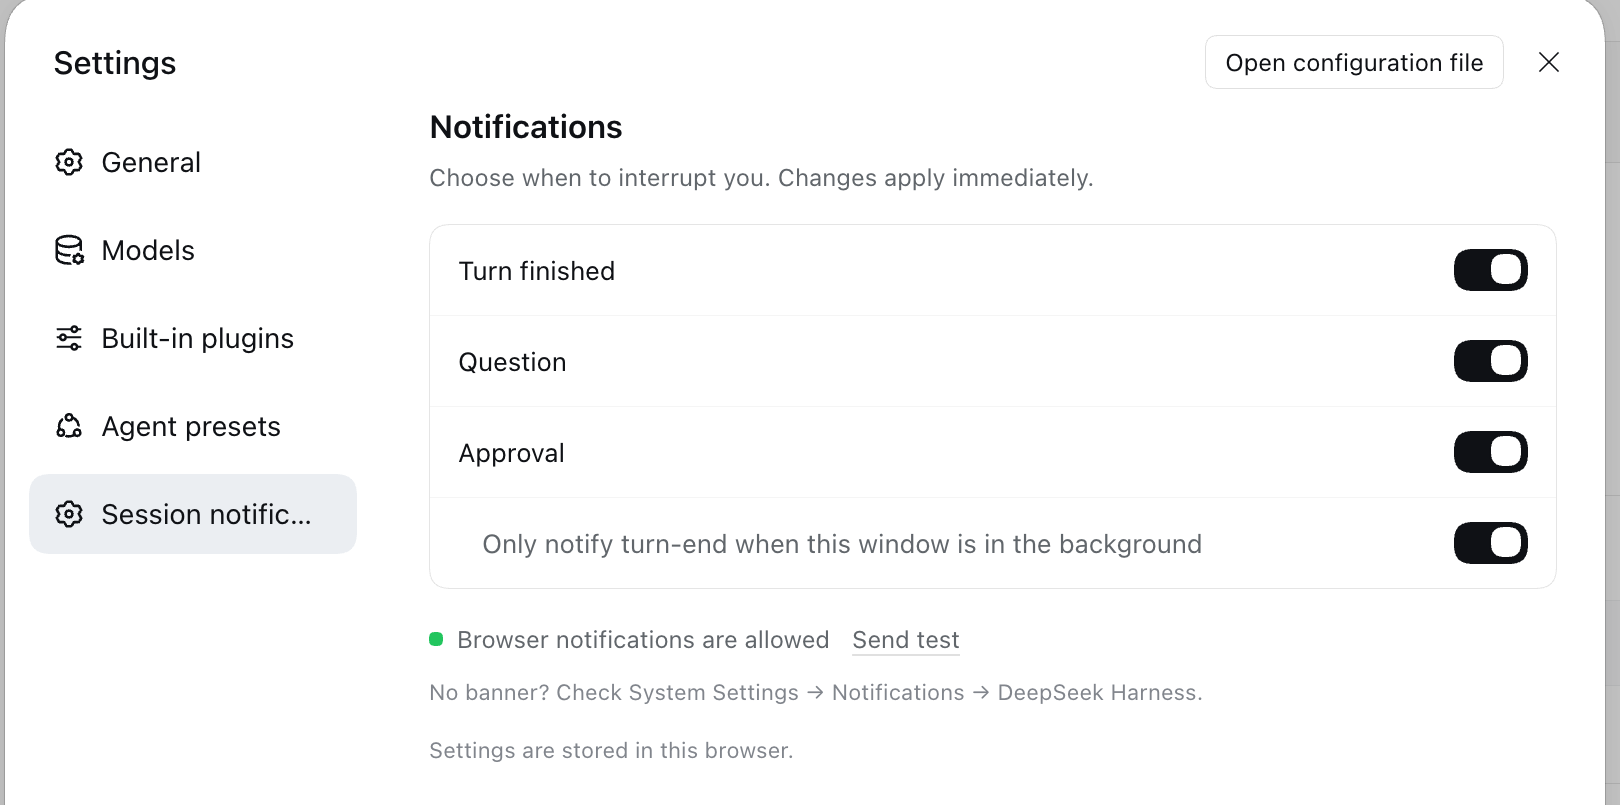
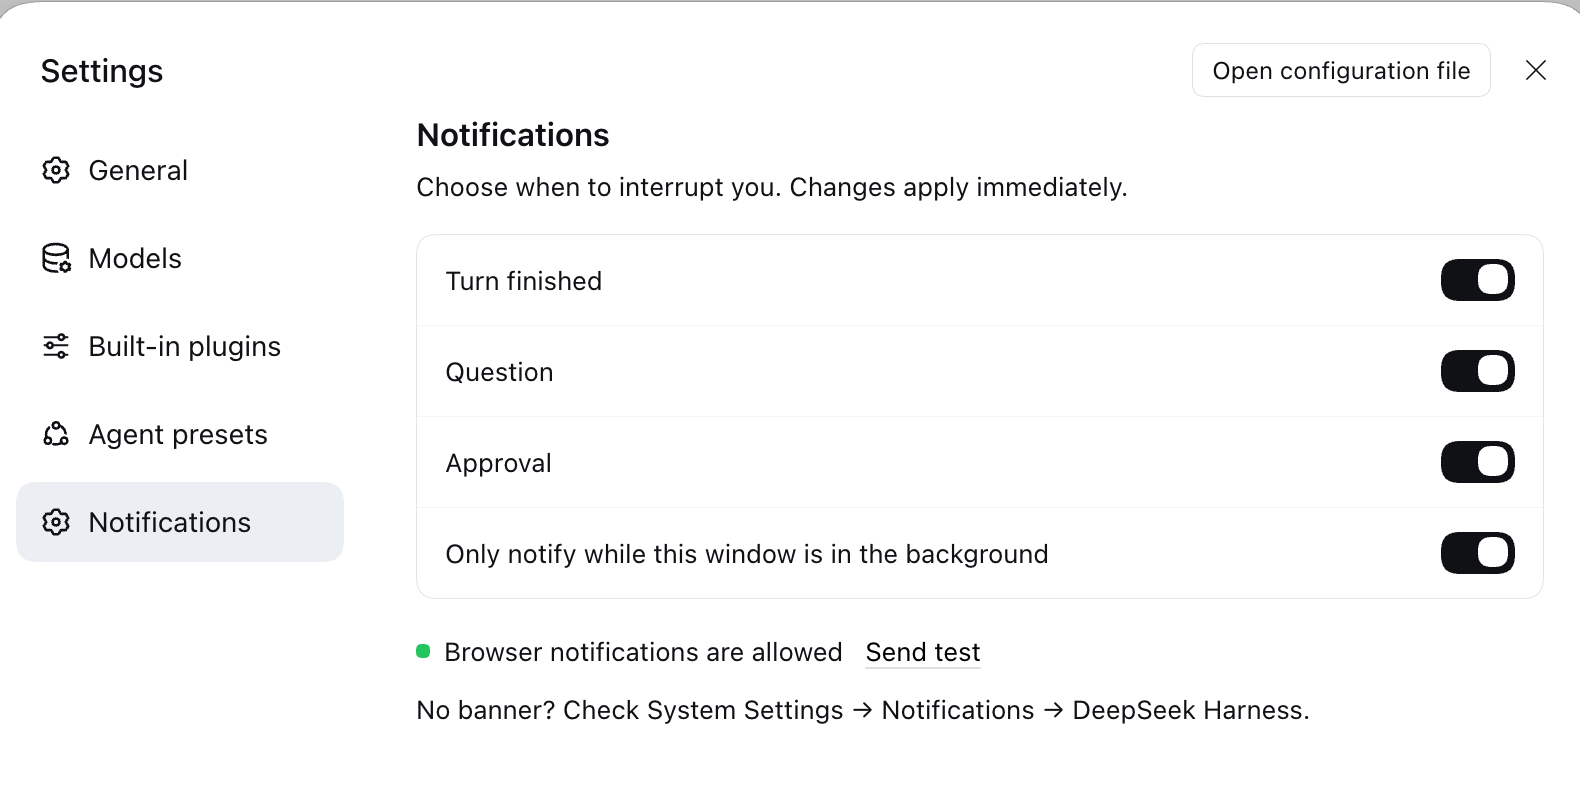
fix: gate every notification on window focus
- Question and approval events no longer notify while the window is focused.
- The background-only switch is a normal row and covers every kind.
- Settings text uses one size and color. Removed the storage note.
- The settings label is Notifications, which fits the sidebar.

diff --git a/client.js b/client.js
@@ -16,15 +16,13 @@ window.__ModuleLoader__.load({
     })
 
     const en = {
-      nav: 'Session notifications',
+      nav: 'Notifications',
       title: 'Notifications',
       intro: 'Choose when to interrupt you. Changes apply immediately.',
       turnEnd: 'Turn finished',
       question: 'Question',
       approval: 'Approval',
-      onlyUnfocused: 'Only notify turn-end when this window is in the background',
-      onlyUnfocusedDisabled: 'Turn-end notifications are off',
-      note: 'Settings are stored in this browser.',
+      onlyUnfocused: 'Only notify while this window is in the background',
       permissionGranted: 'Browser notifications are allowed',
       permissionDenied: 'Browser notifications are denied',
       permissionDefault: 'Browser notifications are not enabled',
@@ -51,9 +49,7 @@ window.__ModuleLoader__.load({
       turnEnd: '回合结束',
       question: '提问',
       approval: '审批',
-      onlyUnfocused: '仅后台通知回合结束',
-      onlyUnfocusedDisabled: '回合结束通知已关闭',
-      note: '设置只保存在当前浏览器。',
+      onlyUnfocused: '仅在窗口处于后台时通知',
       permissionGranted: '浏览器通知已允许',
       permissionDenied: '浏览器通知已被拒绝',
       permissionDefault: '浏览器通知尚未授权',
@@ -90,9 +86,8 @@ window.__ModuleLoader__.load({
       }
       .sb-intro {
         margin: 4px 0 0;
-        color: var(--dsw-alias-label-secondary);
-        font-size: 12px;
-        line-height: 19px;
+        font-size: 13px;
+        line-height: 20px;
       }
       .sb-list {
         margin-top: 14px;
@@ -124,11 +119,7 @@ window.__ModuleLoader__.load({
         outline: 2px solid var(--dsw-alias-state-business-primary);
         outline-offset: -2px;
       }
-      .sb-row:disabled { opacity: .45; cursor: default; }
-      .sb-row:disabled:hover { background: transparent; }
       .sb-row-label { font-size: 13px; line-height: 20px; }
-      .sb-row-sub { padding-left: 26px; }
-      .sb-row-sub .sb-row-label { color: var(--dsw-alias-label-secondary); }
       .sb-switch {
         position: relative;
         width: 36px;
@@ -166,9 +157,8 @@ window.__ModuleLoader__.load({
         gap: 7px;
         min-height: 28px;
         margin-top: 14px;
-        color: var(--dsw-alias-label-secondary);
-        font-size: 12px;
-        line-height: 18px;
+        font-size: 13px;
+        line-height: 20px;
       }
       .sb-dot {
         width: 7px;
@@ -186,10 +176,7 @@ window.__ModuleLoader__.load({
         border: 0;
         border-radius: var(--dsw-radius-xs, 4px);
         background: transparent;
-        color: var(--dsw-alias-label-secondary);
         font: inherit;
-        font-size: 12px;
-        line-height: 18px;
         text-decoration: underline;
         text-decoration-color: var(--dsw-alias-border-l3);
         text-underline-offset: 3px;
@@ -202,17 +189,6 @@ window.__ModuleLoader__.load({
       .sb-link:focus-visible {
         outline: 2px solid var(--dsw-alias-state-business-primary);
         outline-offset: 1px;
-      }
-      .sb-hint {
-        color: var(--dsw-alias-label-tertiary);
-        font-size: 11px;
-        line-height: 17px;
-      }
-      .sb-note {
-        margin: 12px 0 0;
-        color: var(--dsw-alias-label-tertiary);
-        font-size: 11px;
-        line-height: 17px;
       }
       @media (prefers-reduced-motion: reduce) {
         .sb-switch, .sb-switch::after { transition: none; }
@@ -366,14 +342,12 @@ window.__ModuleLoader__.load({
       return () => style.remove()
     }
 
-    function SwitchRow({ label, checked, disabled, disabledTitle, sub, onChange }) {
+    function SwitchRow({ label, checked, onChange }) {
       return React.createElement('button', {
         type: 'button',
-        className: sub ? 'sb-row sb-row-sub' : 'sb-row',
+        className: 'sb-row',
         role: 'switch',
         'aria-checked': checked,
-        disabled,
-        title: disabled ? disabledTitle : undefined,
         onClick: () => onChange(!checked),
       },
         React.createElement('span', { className: 'sb-row-label' }, label),
@@ -393,15 +367,11 @@ window.__ModuleLoader__.load({
         () => locale.getSnapshot().revision,
       )
 
-      function row(key, label, sub = false) {
-        const disabled = key === 'onlyUnfocused' && !settings.turnEnd
+      function row(key, label) {
         return React.createElement(SwitchRow, {
           key,
           label,
           checked: settings[key],
-          disabled,
-          disabledTitle: t('onlyUnfocusedDisabled'),
-          sub,
           onChange: (value) => store.set({ [key]: value }),
         })
       }
@@ -421,7 +391,7 @@ window.__ModuleLoader__.load({
             className: 'sb-link',
             onClick: () => { void sendTest(t) },
           }, t('test')),
-          React.createElement('span', { className: 'sb-hint' }, t('permissionHint')),
+          React.createElement('span', null, t('permissionHint')),
         )
       } else if (permissionState === 'denied') {
         permissionNode = React.createElement('div', { className: 'sb-permission' },
@@ -432,7 +402,7 @@ window.__ModuleLoader__.load({
             className: 'sb-link',
             onClick: () => { void requestPermission() },
           }, t('requestAgain')),
-          React.createElement('span', { className: 'sb-hint' }, t('deniedHint')),
+          React.createElement('span', null, t('deniedHint')),
         )
       } else {
         permissionNode = React.createElement('div', { className: 'sb-permission' },
@@ -443,7 +413,7 @@ window.__ModuleLoader__.load({
             className: 'sb-link',
             onClick: () => { void requestPermission() },
           }, t('request')),
-          React.createElement('span', { className: 'sb-hint' }, t('permissionHint')),
+          React.createElement('span', null, t('permissionHint')),
         )
       }
 
@@ -454,10 +424,9 @@ window.__ModuleLoader__.load({
           row('turnEnd', t('turnEnd')),
           row('question', t('question')),
           row('approval', t('approval')),
-          row('onlyUnfocused', t('onlyUnfocused'), true),
+          row('onlyUnfocused', t('onlyUnfocused')),
         ),
         permissionNode,
-        React.createElement('p', { className: 'sb-note' }, t('note')),
       )
     }
 
@@ -503,7 +472,7 @@ window.__ModuleLoader__.load({
           else if (payload.kind === 'approval') enabled = settings.approval
           else return
           if (!enabled) return
-          if (payload.kind === 'turn-end' && settings.onlyUnfocused && isWindowFocused()) return
+          if (settings.onlyUnfocused && isWindowFocused()) return
 
           const body = typeof payload.body === 'string' && payload.body !== ''
             ? payload.body

diff --git a/test/client.test.js b/test/client.test.js
@@ -260,7 +260,7 @@ test('persists a switch immediately', () => {
   })
   const second = switches(page.render())
   assert.equal(second.find((row) => textOf(row) === '回合结束').props['aria-checked'], false)
-  assert.equal(second.find((row) => textOf(row) === '仅后台通知回合结束').props.disabled, true)
+  assert.equal(second.find((row) => textOf(row) === '仅在窗口处于后台时通知').props['aria-checked'], true)
 })
 
 test('an event source failure does not remove the settings page', () => {
@@ -304,7 +304,7 @@ test('denied permission suppresses notifications', () => {
 
 test('turning off background-only lets a focused turn-end notify', () => {
   const page = setup()
-  const onlyUnfocused = switches(page.render()).find((row) => textOf(row) === '仅后台通知回合结束')
+  const onlyUnfocused = switches(page.render()).find((row) => textOf(row) === '仅在窗口处于后台时通知')
   onlyUnfocused.props.onClick()
   page.setFocused(true)
   page.send({ kind: 'turn-end', sessionId: 's1', title: 'Build', body: 'Done.' })
@@ -360,9 +360,21 @@ test('permission status names the browser permission and points to system settin
   assert.match(denied, /在浏览器中允许/)
 })
 
-test('question fallback is localized when the body is empty', () => {
+test('a focused window suppresses questions and approvals too', () => {
   const page = setup()
   page.setFocused(true)
+  page.send({ kind: 'question', sessionId: 's1', title: 'Build', body: '' })
+  page.send({ kind: 'approval', sessionId: 's1', title: 'Build', body: '', meta: { toolName: 'Bash' } })
+  assert.equal(page.notifications.length, 0)
+  page.setFocused(false)
+  page.send({ kind: 'question', sessionId: 's1', title: 'Build', body: '' })
+  page.send({ kind: 'approval', sessionId: 's1', title: 'Build', body: '', meta: { toolName: 'Bash' } })
+  assert.equal(page.notifications.length, 2)
+})
+
+test('question fallback is localized when the body is empty', () => {
+  const page = setup()
+  page.setFocused(false)
   page.send({ kind: 'question', sessionId: 's1', title: 'Build', body: '' })
   assert.equal(page.notifications.length, 1)
   assert.equal(page.notifications[0].options.body, '需要你回答')

diff --git a/README.md b/README.md
@@ -24,19 +24,19 @@ Harness itself, not a helper app. A click opens the Session that raised it.
 
 ## Settings
 
-Open More → Settings, then choose Session notifications in the settings sidebar.
+Open More → Settings, then choose Notifications in the settings sidebar.
 
-![Session notifications in More → Settings](assets/screenshot-settings.png)
+![Notifications in More → Settings](assets/screenshot-settings.png)
 
 | Switch | What it does |
 | --- | --- |
 | Turn finished | Notify when a turn stops. |
 | Question | Notify when a question waits for an answer. |
 | Approval | Notify when an approval waits for a decision. |
-| Only notify turn-end when this window is in the background | When on, a focused window does not show turn-end notifications. When off, every turn end notifies. Default on. Disabled when Turn finished is off. |
+| Only notify while this window is in the background | When on, a focused window shows no notifications. When off, every event notifies. Default on. |
 
-Switches apply immediately; there is no save button. Settings are stored in the
-current browser (localStorage), not in the app configuration. The section shows
+Switches apply immediately; there is no save button. Settings are stored locally
+in the app (localStorage), not in the app configuration. The section shows
 the browser notification permission and a Send test action. This is the page
 permission, not the operating system permission. If no banner appears, open
 System Settings → Notifications → DeepSeek Harness.
@@ -75,7 +75,7 @@ Two halves, one route.
    name only, not the command or reason. No Web server means no route and no
    work, so the CLI stays silent.
 2. Page half (`client.js`) subscribes to that route, filters events by the
-   switches, suppresses turn-end while the window is focused, and calls the
+   switches, suppresses notifications while the window is focused, and calls the
    page's own `Notification` constructor. On click it calls
    `ctx.uiWorkspace.openSession(sessionId)`. Empty bodies are localized in the
    page.

diff --git a/README.zh.md b/README.zh.md
@@ -30,9 +30,9 @@ DeepSeek Harness 本体，不是外部助手应用。点通知直接跳到发起
 | 回合结束 | 回合停止时通知。 |
 | 提问 | 有提问等待回答时通知。 |
 | 审批 | 有审批等待决定时通知。 |
-| 仅后台通知回合结束 | 开启时，窗口有焦点就不发回合结束通知；关闭时每次都发。默认开启。关闭“回合结束”后此项不可用。 |
+| 仅在窗口处于后台时通知 | 开启时，窗口有焦点就不发任何通知；关闭时每个事件都发。默认开启。 |
 
-开关立即生效，没有保存按钮。设置存在当前浏览器（localStorage），不写入应用配置。
+开关立即生效，没有保存按钮。设置存在本机应用内（localStorage），不写入应用配置。
 该分区显示浏览器通知权限和“发送测试”。这是页面权限，不是系统权限。
 若一直不弹，去 系统设置 → 通知 → DeepSeek Harness 打开。
 
@@ -63,7 +63,7 @@ dsh-session-bell
 1. 宿主半（`index.js`）监听 `agent/turn-stopping`、`user-questions/request` 和
    `approval/request`，把事件写成 `/session-bell/events` 上的 Server-Sent Events。
    审批只带工具名，不带命令或理由。没有 Web 服务时不注册路由，CLI 下静默。
-2. 页面半（`client.js`）订阅该路由，按开关过滤事件，窗口有焦点时抑制回合结束通知，
+2. 页面半（`client.js`）订阅该路由，按开关过滤事件，窗口有焦点时不发任何通知，
    再用页面自带 `Notification` 构造通知。点击时调用
    `ctx.uiWorkspace.openSession(sessionId)`。空正文由页面本地化。
 

diff --git a/CHANGELOG.md b/CHANGELOG.md
@@ -1,5 +1,17 @@
 # Changelog
 
+## 0.2.2 - 2026-11-12
+
+### Fixes
+
+- The background-only switch now applies to every notification kind. Question
+  and approval events no longer raise a banner while the window is focused. The
+  switch is a normal row and reads "Only notify while this window is in the
+  background".
+- The settings section label is "Notifications". The longer label was clipped in
+  the settings sidebar.
+- All settings text uses one size and color. Removed the storage note.
+
 ## 0.2.1 - 2026-11-12
 
 ### Fixes
